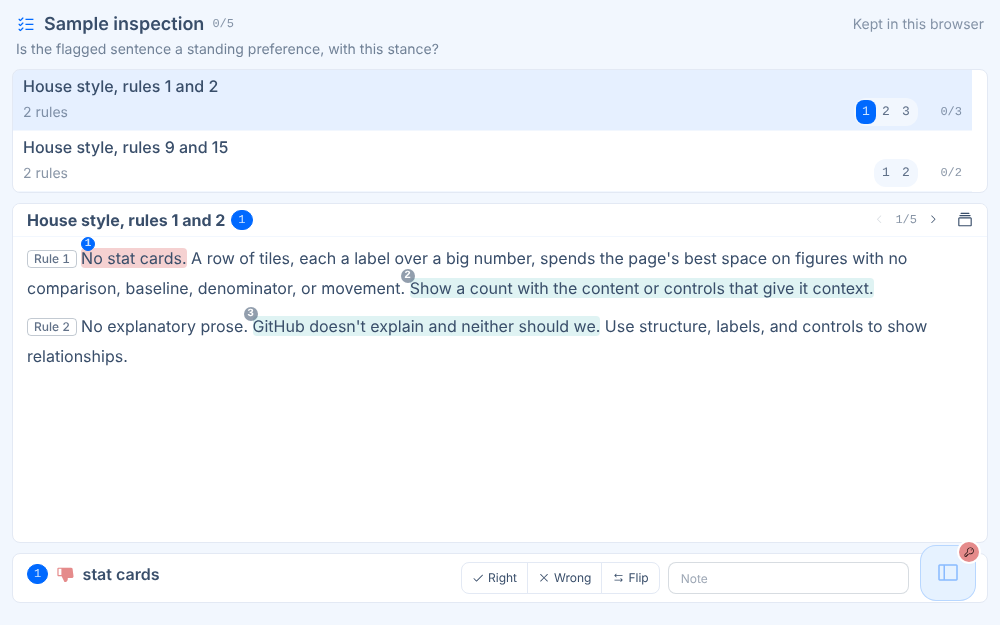
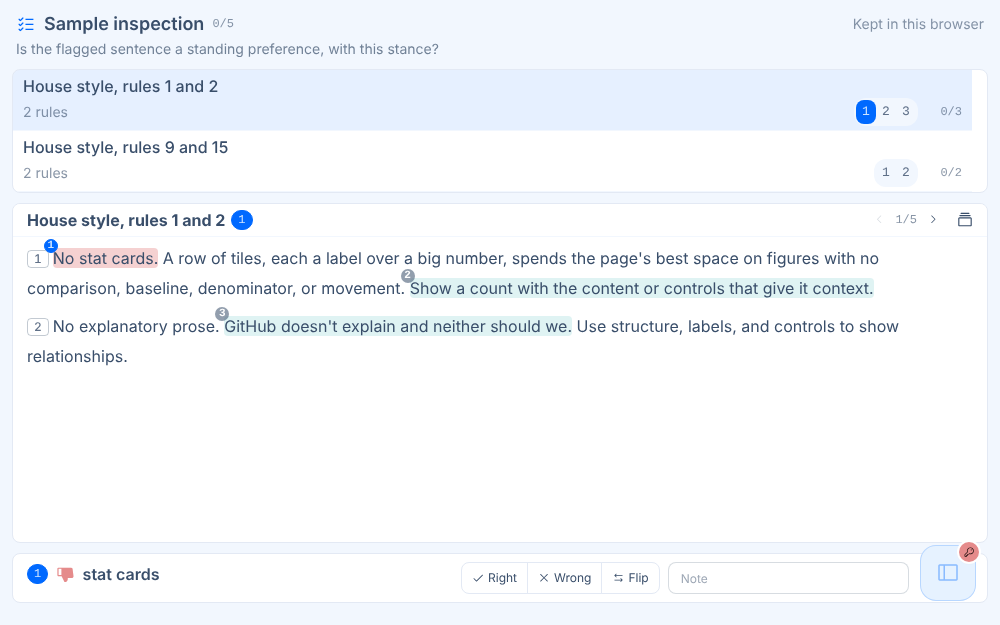
Inspection: a turn's tag shows its number, and every disc sits on its corner
The turn tag drops "Turn" and shows the number its label ends with, the
whole label in its tip. A passage that starts a turn's words keeps its disc
on its top-left corner, close over the tag, as every other passage does.

Claude-Session: https://claude.ai/code/session_01Ug8CXB6PirpgRbETf2yWnc

Changed region(s): [[0.031, 0.4864, 0.93, 0.5472], [0.031, 0.3648, 0.899, 0.4256]]

diff --git a/pages/inspection.html b/pages/inspection.html
@@ -118,13 +118,14 @@
   // strip and in the deck.
   const BADGE = 'grid h-3.5 min-w-3.5 cursor-pointer place-items-center rounded-full border px-[2px] font-mono text-[11px] leading-none font-semibold tabular-nums';
   const DISCS = 'absolute -top-[9px] -left-[9px] flex gap-px select-none';
-  const DISCS_LEAD = 'absolute -top-[11px] left-0 flex gap-px select-none';
   const INPUT = { strip: 'leading-7.5', deck: 'leading-8.5' };
-  // A turn: its label an outlined 18px tag at the start of its words, 4px
-  // before them; a passage that starts the words hangs its disc over its own
-  // first letter (DISCS_LEAD), clear of the tag. Turns are parted by a gap; a
-  // run of quiet ones is a fold, the same tag and a dashed rule, that opens
-  // in place.
+  // A turn: its label's number in an outlined 18px tag at the start of its
+  // words, 4px before them, the whole label in its tip; a disc of a passage
+  // that starts the words sits close over the tag's corner. Turns are parted
+  // by a gap; a run of quiet ones is a fold, the same tag and a dashed rule,
+  // that opens in place.
+  // A turn's tag: the number its label ends with, else the whole label.
+  const turnNo = b => (b.label || b.id).match(/(\d+)$/)?.[1] ?? (b.label || b.id);
   const TURN = {
     gap: 'space-y-2',
     badge: 'inline-flex items-center rounded-sm border border-base-content/30 mr-1 h-[18px] px-1.5 text-xs leading-none font-medium tabular-nums align-[1px] text-base-content/80',
@@ -329,7 +330,7 @@
       const nums = spans.filter(s => s.at[0] === a).map(({ o, role }) =>
         `<span data-badge="${esc(o.id)}" data-role="${role}" class="${BADGE} ${badgeTone(r.id, o.id, o === own, role)}">${r.outputs.indexOf(o) + 1}</span>`).join('');
       h += `<mark data-run="${esc(r.id)}" data-outs="${esc(on.map(o => o.id).join(' '))}"${mine ? ' data-cur' : ''}${top ? ' data-first' : ''}${tipOf(r, on)} data-title-tip-bare tabindex="-1"`
-        + ` class="${!mine || on.length > 1 ? 'cursor-pointer ' : ''}relative ${role === 'again' ? '' : 'rounded-sm '}text-inherit box-decoration-clone ${fillOf(mine, role, hue)}">${nums && `<span class="${a ? DISCS : DISCS_LEAD}">${nums}</span>`}${t}</mark>`;
+        + ` class="${!mine || on.length > 1 ? 'cursor-pointer ' : ''}relative ${role === 'again' ? '' : 'rounded-sm '}text-inherit box-decoration-clone ${fillOf(mine, role, hue)}">${nums && `<span class="${DISCS}">${nums}</span>`}${t}</mark>`;
     }
     return h;
   }
@@ -362,7 +363,7 @@
   const opened = new Set();
   const turnHTML = (r, b, own, pad) => `
       <section data-block="${esc(b.id)}" class="${pad}">
-        <p class="whitespace-pre-wrap [overflow-wrap:anywhere]"><span class="${TURN.badge}">${esc(b.label || b.id)}</span>${marked(r, b, own)}</p>
+        <p class="whitespace-pre-wrap [overflow-wrap:anywhere]"><span class="${TURN.badge}" data-title-tip="${esc(b.label || b.id)}" data-title-tip-bare>${esc(turnNo(b))}</span>${marked(r, b, own)}</p>
       </section>`;
   // A run's turns, each run of two or more quiet ones folded unless opened.
   function turnsHTML(r, own, pad) {
